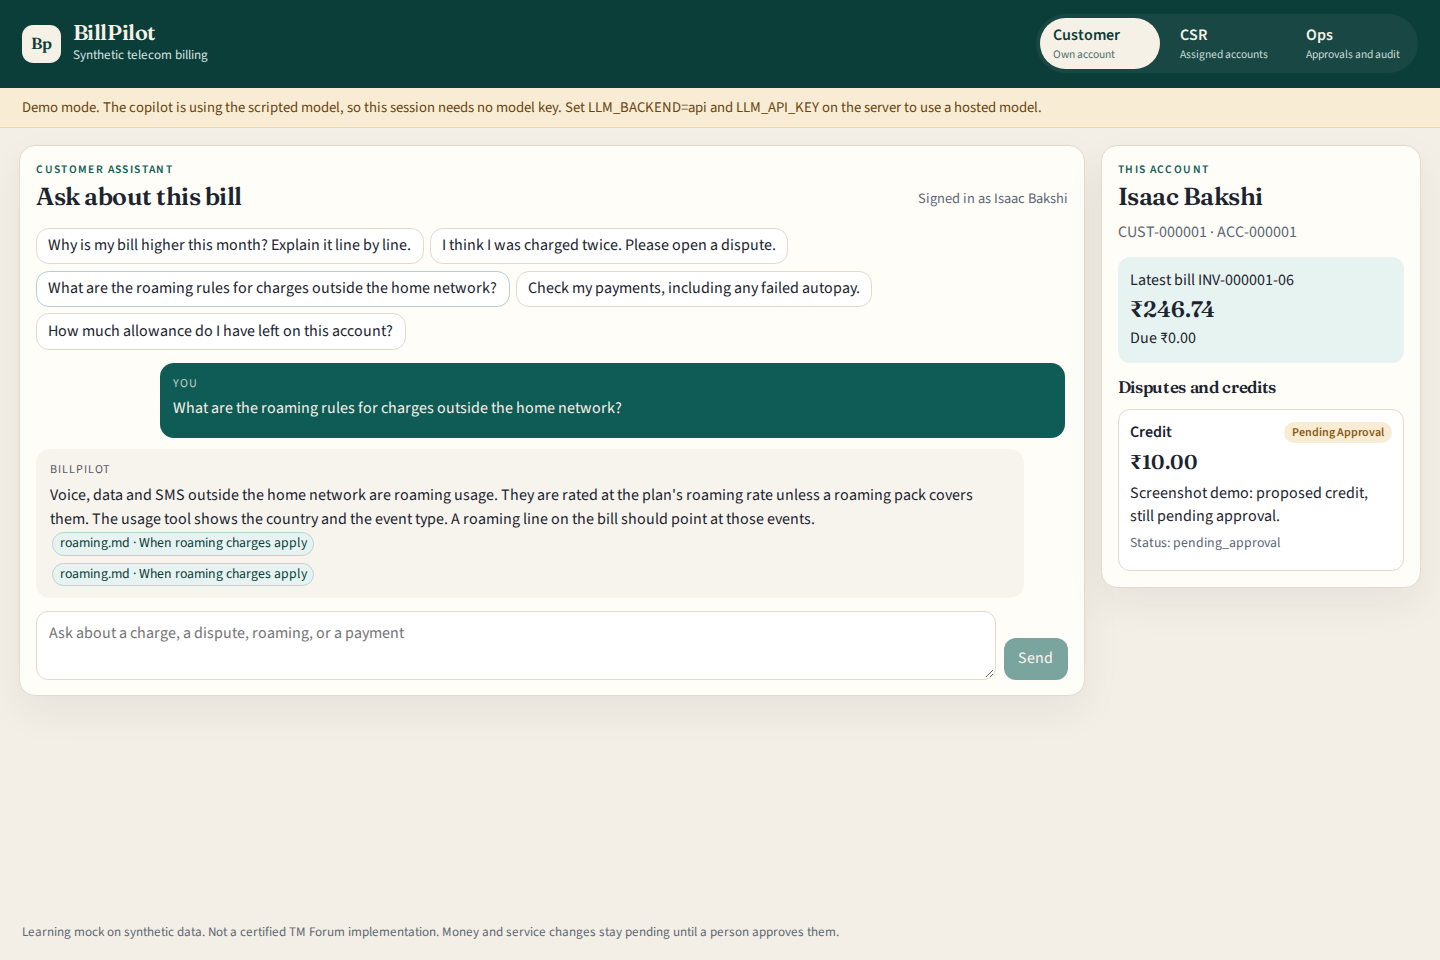
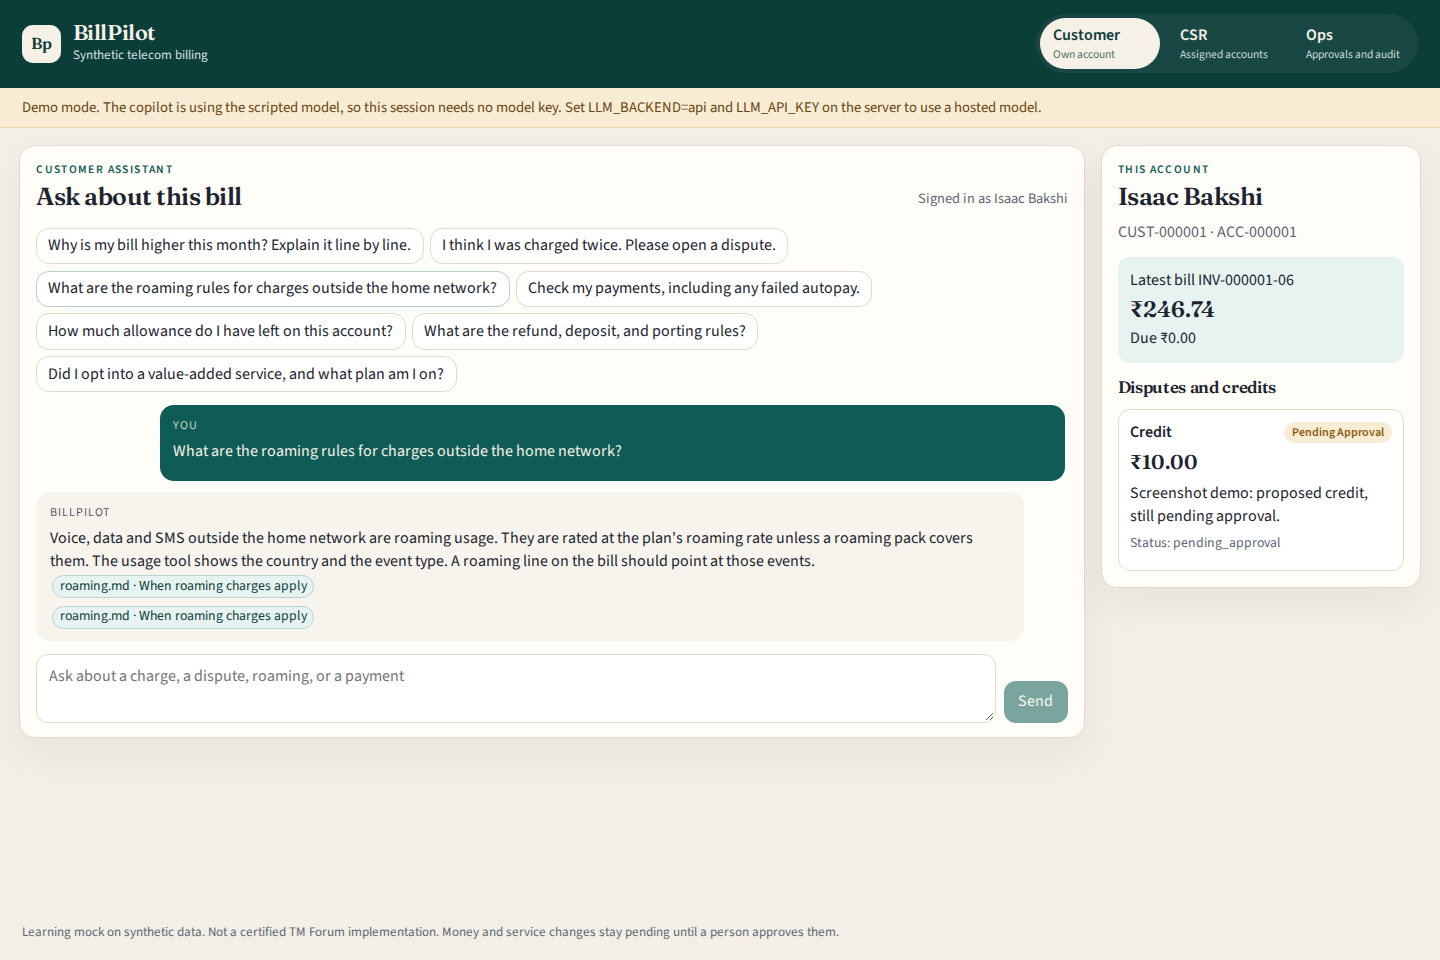
Give each persona a path and document a small local run
Move the web CI action onto a Node 24 runtime, and add a laptop click-through that stays on the fake model until a key is set.

Changed region(s): [[0.0, 0.3438, 0.75, 0.75]]

diff --git a/web/src/test/ui.test.tsx b/web/src/test/ui.test.tsx
@@ -36,13 +36,33 @@ describe("persona UI", () => {
     expect(await screen.findByRole("status")).toHaveTextContent(/demo mode/i);
     expect(screen.getByRole("heading", { name: "Ask about this bill" })).toBeInTheDocument();
     await user.click(screen.getByRole("radio", { name: /ops/i }));
+    expect(window.location.pathname).toBe("/ops");
     expect(screen.getByRole("heading", { name: "Approvals, runs, and the audit log" })).toBeInTheDocument();
+    expect(screen.getByText(/no customer chat/i)).toBeInTheDocument();
     expect(screen.getByRole("region", { name: /failure dashboard, phase 4/i })).toBeInTheDocument();
     expect(screen.getByRole("region", { name: /reports, phase 4/i })).toBeInTheDocument();
     await user.click(screen.getByRole("tab", { name: "Unbars" }));
     expect(screen.getByText(/no unbar proposals/i)).toBeInTheDocument();
     await user.click(screen.getByRole("radio", { name: /csr/i }));
+    expect(window.location.pathname).toBe("/csr");
     expect(screen.getByRole("region", { name: /csr troubleshooting ai, phase 4/i })).toBeInTheDocument();
+  });
+
+  it("opens the ops view from /ops", async () => {
+    window.history.pushState({}, "", "/ops");
+    vi.stubGlobal(
+      "fetch",
+      vi.fn(async (input: RequestInfo) => {
+        const url = String(input);
+        if (url.endsWith("/health")) {
+          return ok({ status: "ok", demoMode: true, llmBackend: "fake", tracing: false });
+        }
+        return ok([], "0");
+      }),
+    );
+    render(<App />);
+    expect(await screen.findByRole("heading", { name: "Approvals, runs, and the audit log" })).toBeInTheDocument();
+    expect(screen.getByRole("radio", { name: /ops/i })).toHaveAttribute("aria-checked", "true");
   });
 
   it("renders a citation as a button and a credit as pending approval", async () => {

diff --git a/web/src/App.tsx b/web/src/App.tsx
@@ -1,7 +1,7 @@
 import { useEffect, useMemo, useState } from "react";
 
 import { createApi } from "./api";
-import { personaById, PERSONAS } from "./personas";
+import { personaById, personaFromPath, PERSONAS, personaPath } from "./personas";
 import type { PersonaId } from "./personas";
 import type { Health } from "./types";
 import { CsrConsole } from "./views/CsrConsole";
@@ -9,9 +9,23 @@ import { CustomerChat } from "./views/CustomerChat";
 import { OpsDashboard } from "./views/OpsDashboard";
 
 export function App() {
-  const [persona, setPersona] = useState<PersonaId>("customer");
+  const [persona, setPersona] = useState<PersonaId>(() => personaFromPath(window.location.pathname));
   const [health, setHealth] = useState<Health | null>(null);
   const api = useMemo(() => createApi(personaById(persona).key), [persona]);
+
+  useEffect(() => {
+    const onPop = () => setPersona(personaFromPath(window.location.pathname));
+    window.addEventListener("popstate", onPop);
+    return () => window.removeEventListener("popstate", onPop);
+  }, []);
+
+  function selectPersona(id: PersonaId) {
+    setPersona(id);
+    const path = personaPath(id);
+    if (window.location.pathname !== path) {
+      window.history.pushState({ persona: id }, "", path);
+    }
+  }
 
   useEffect(() => {
     let cancel = false;
@@ -48,7 +62,7 @@ export function App() {
               role="radio"
               aria-checked={persona === item.id}
               className={persona === item.id ? "persona selected" : "persona"}
-              onClick={() => setPersona(item.id)}
+              onClick={() => selectPersona(item.id)}
             >
               <strong>{item.label}</strong>
               <span>{item.scope}</span>

diff --git a/web/src/views/OpsDashboard.tsx b/web/src/views/OpsDashboard.tsx
@@ -80,6 +80,7 @@ export function OpsDashboard({ api }: { api: Api }) {
         <div>
           <p className="eyebrow">Ops control tower</p>
           <h2>Approvals, runs, and the audit log</h2>
+          <p className="muted">Ops has no customer chat. This screen approves proposals and reads the log.</p>
         </div>
       </header>
       {error ? <p className="error">{error}</p> : null}
@@ -180,13 +181,18 @@ export function OpsDashboard({ api }: { api: Api }) {
             { key: "actor", label: "Actor", render: (row) => `${row.actorRole} · ${row.actorId}` },
             { key: "action", label: "Action", render: (row) => row.action },
             { key: "resource", label: "Resource", render: (row) => row.resourceType },
+            {
+              key: "request",
+              label: "Request",
+              render: (row) => <code title={row.requestId}>{row.requestId.slice(0, 8)}</code>,
+            },
           ]}
         />
       </section>
 
       <div className="placeholders">
         <Placeholder phase="Phase 4" title="Failure dashboard">
-          Live failures, stuck bill runs, and consumer lag. The event publisher is still a no-op, so this panel is a placeholder.
+          Live failures, stuck bill runs, consumer lag, and the fraud and revenue checks. The event publisher is still a no-op, so this panel is a placeholder.
         </Placeholder>
         <Placeholder phase="Phase 4" title="Reports">
           Daily and monthly billing, collections, dispute, and treatment reports are not generated yet.

diff --git a/web/src/personas.ts b/web/src/personas.ts
@@ -10,3 +10,14 @@ export const PERSONAS: { id: PersonaId; label: string; key: string; scope: strin
 export function personaById(id: PersonaId) {
   return PERSONAS.find((persona) => persona.id === id) ?? PERSONAS[0];
 }
+
+export function personaPath(id: PersonaId): string {
+  return `/${id}`;
+}
+
+/** `/` is the customer view. `/csr` and `/ops` are the other two. */
+export function personaFromPath(path: string): PersonaId {
+  const head = path.split("/").filter(Boolean)[0];
+  if (head === "csr" || head === "ops") return head;
+  return "customer";
+}

diff --git a/web/src/views/CustomerChat.tsx b/web/src/views/CustomerChat.tsx
@@ -21,6 +21,8 @@ const PROMPTS = [
   "What are the roaming rules for charges outside the home network?",
   "Check my payments, including any failed autopay.",
   "How much allowance do I have left on this account?",
+  "What are the refund, deposit, and porting rules?",
+  "Did I opt into a value-added service, and what plan am I on?",
 ];
 
 export function CustomerChat({ api }: { api: Api }) {

diff --git a/web/src/test/setup.ts b/web/src/test/setup.ts
@@ -5,4 +5,5 @@ import { afterEach, vi } from "vitest";
 afterEach(() => {
   cleanup();
   vi.unstubAllGlobals();
+  window.history.pushState({}, "", "/");
 });

diff --git a/docs/deploy.md b/docs/deploy.md
@@ -4,6 +4,114 @@ This is a portfolio deploy. The data is synthetic. You create the accounts and c
 
 The shape is one container (API and the built UI) plus a hosted Postgres that has pgvector. The choices and the reasons are in [0021](decisions/0021-render-and-neon.md).
 
+## How to test locally
+
+You can do this on a laptop before you create any host account. Docker is the only install. The copilot stays on the scripted model until you set a key, so this costs nothing.
+
+### A smaller ledger when RAM is tight
+
+`docker compose up` with no overrides seeds **500 customers and 6 months**. That is the design target. On a laptop with limited free memory, use the same smaller ledger the free host uses: 48 customers, 2 months, one of each planted fault. Postgres plus that seed fits a machine that would struggle with the full set.
+
+If a previous run already created the volume, remove it first. Otherwise the old 500-customer database is reused and the new counts are ignored.
+
+```bash
+docker compose down -v
+```
+
+Copy `.env.example` to `.env` and set these three lines. The anomaly JSON must name every fault type. `CUSTOMER_COUNT=48` is enough for one of each plus the healthy controls. It is not enough for the default counts, which need at least 112 customers.
+
+```bash
+CUSTOMER_COUNT=48
+MONTHS=2
+ANOMALY_COUNTS={"double_charge":1,"roaming_spike":1,"wrong_rate":1,"missed_discount":1,"charge_after_cancellation":1,"vas_not_opted_in":1,"payment_not_recorded":1,"payment_not_posted":1,"unbilled_usage":1,"duplicate_usage":1,"sim_swap":1,"barred_after_paying":1,"treated_during_open_dispute":1,"payment_not_ending_treatment":1,"promise_to_pay_ignored":1,"exempt_account_treated":1,"addon_never_activated":1,"allowance_not_reset":1,"overlapping_packs_double_counted":1,"overlapping_packs_dropped":1,"promo_ended_early":1,"feature_active_after_cancellation":1,"overage_on_covered_usage":1}
+```
+
+Leave `LLM_BACKEND=fake` and leave `LLM_API_KEY` empty.
+
+```bash
+docker compose up --build
+```
+
+Wait until the API log says it is listening, or until `curl -s http://localhost:8000/health` returns `"status":"ok"` and `"demoMode":true`. The first boot migrates and seeds. A later `docker compose up` skips the seed when `customers` already has rows.
+
+If the seed container is killed before it prints `Seeded`, the machine ran out of memory. Run `docker compose down -v` and use the 48-customer settings above. Do not raise `CUSTOMER_COUNT` on a 512 MB host. That limit is the Render free instance, not your laptop.
+
+### URLs and demo keys
+
+| View | URL | Key the switcher sends | Scope |
+| --- | --- | --- | --- |
+| Customer | http://localhost:8000/customer (also http://localhost:8000) | `dev-customer-key` | `CUST-000001` only |
+| CSR | http://localhost:8000/csr | `dev-csr-key` | Accounts assigned to `CSR-A`, including `CUST-000001` |
+| Ops | http://localhost:8000/ops | `dev-ops-key` | Every account, approvals, runs, audit. No customer chat |
+| Health | http://localhost:8000/health | none | `demoMode` and `tracing` |
+| API docs | http://localhost:8000/docs | none | OpenAPI |
+
+The keys are the published demo defaults. They are in the frontend bundle on purpose. Do not replace them with a key you care about.
+
+### Click-through
+
+The banner should say **Demo mode** before you start.
+
+**Customer** at http://localhost:8000/customer
+
+1. Confirm the rail shows `CUST-000001` and a latest bill.
+2. Click **Why is my bill higher this month? Explain it line by line.** Wait for the answer. It names the bill and the lines.
+3. Click a citation chip, such as `billing-policy.md` or `tariffs.md`. A drawer opens that policy section. Close it.
+4. Click **What are the roaming rules for charges outside the home network?** The answer cites `roaming.md`. Open that chip.
+5. Click **I think I was charged twice. Please open a dispute.** The rail shows the dispute with status `open`. A customer cannot apply a credit. The answer says a CSR has to propose one and ops has to approve it.
+6. Click **What are the refund, deposit, and porting rules?** and **Did I opt into a value-added service, and what plan am I on?** Each answer cites a policy section.
+
+**CSR** at http://localhost:8000/csr
+
+1. Search `CUST-000001` and select that account.
+2. Walk the tabs: Bills, Lines, Usage, Payments, Treatment, Tickets, Disputes. Disputes shows the dispute from the customer step, with status `open`.
+3. In the copilot box, ask: `Explain the latest bill line by line against the tariff.`
+4. Open the **tool calls** control under the answer. You should see the bill, the lines, and a policy search. Click a citation chip and read the section.
+5. The **CSR troubleshooting AI** panel says Phase 4. It does not take an error paste yet.
+
+`CUST-000001` is the healthy demo customer. The copilot proposes a credit only when it finds a duplicate line, and it will not auto-credit a roaming spike. On the 500-customer seed, search `CUST-000003` (even index, so CSR-A can see it) and ask: `I think this bill was charged twice. Propose a credit. Do not apply it.` The card says **Pending approval**. On the 48-customer seed the only double charge is `CUST-000002`, which belongs to CSR-B. To watch the copilot propose that one, set `CSR_CODE=CSR-B` in `.env`, run `docker compose up -d --force-recreate api`, and search `CUST-000002` with the same question. Set `CSR_CODE` back to `CSR-A` when you are done.
+
+To put a credit on the demo account without hunting for a planted fault, propose one with the CSR key. It stays `pending_approval`. Replace `ACCOUNT_ID` and `BILL_ID` with the ids from the CSR Bills tab (or from the customer bill API).
+
+```bash
+curl -s -X POST http://localhost:8000/tmf-api/customerBillManagement/v4/billAdjustment \
+  -H 'X-API-Key: dev-csr-key' -H 'Content-Type: application/json' \
+  -d '{"billingAccount":{"id":"ACCOUNT_ID"},"customerBill":{"id":"BILL_ID"},"adjustmentType":"credit","amount":{"unit":"INR","value":"10.00"},"reason":"Demo credit, still pending approval."}'
+```
+
+**Ops** at http://localhost:8000/ops
+
+1. Confirm the page says ops has no customer chat. The three counters are open disputes, pending approvals, and fraud flags.
+2. On **Credits**, the proposed credit shows the amount, the reason, and who proposed it. Click **Approve**. The notice names the approver (`ops`) and the status. The row leaves the pending list. Reload the customer view: the credit is no longer pending, and the line names who decided it.
+3. A second `POST` to `/tmf-api/customerBillManagement/v4/billAdjustment/{id}/approve` returns 409 and does not change the bill again. The UI shows that message when the endpoint returns 409.
+4. Open **Unbars** and **Plan changes**. Both say there is no proposal and no endpoint. Do not expect a button there.
+5. **Recent agent runs** lists the turns you just made, with decision, token total, estimated cost, latency, and trace id. The trace id is a dash until Langfuse keys are set.
+6. **Audit log** lists the chat turns and the approval. The request column is the first characters of the request id.
+7. **Failure dashboard** and **Reports** are marked Phase 4, including fraud and revenue checks.
+
+### Switch from the fake model to a real API key
+
+Still local. Put the key only in `.env`, which is gitignored.
+
+```bash
+LLM_BACKEND=api
+LLM_BASE_URL=https://api.openai.com/v1
+LLM_MODEL=gpt-4o-mini
+LLM_API_KEY=sk-...
+```
+
+Any host that accepts `POST {LLM_BASE_URL}/chat/completions` works. Keep `EMBEDDING_BACKEND=hash` so you are not billed for vectors.
+
+Recreate the API so it reads the new values. The database volume stays.
+
+```bash
+docker compose up -d --build api
+```
+
+Reload http://localhost:8000/health. `demoMode` is false and `llmBackend` is `api`. The banner no longer says demo mode. Ask one customer question and stop. Each question spends tokens on your key.
+
+To go back, set `LLM_BACKEND=fake`, clear `LLM_API_KEY`, and run `docker compose up -d --build api` again. `demoMode` returns to true.
+
 ## What you create
 
 | Account | Plan | Pays for |

diff --git a/README.md b/README.md
@@ -63,9 +63,9 @@ Requirements: Docker, and for tests a local Python 3.12.
 docker compose up --build
 ```
 
-That starts Postgres, runs migrations, seeds 500 customers across 6 months, and serves the API and the persona UI from one process. Open <http://localhost:8000> for the UI and <http://localhost:8000/docs> for the API.
+That starts Postgres, runs migrations, seeds 500 customers across 6 months, and serves the API and the persona UI from one process. The three views are <http://localhost:8000/customer> (also <http://localhost:8000>), <http://localhost:8000/csr>, and <http://localhost:8000/ops>. The API reference is <http://localhost:8000/docs>.
 
-The header switches persona. Each button sends one of the demo keys below. With no model key, a banner says the copilot is in demo mode.
+The header switches persona and updates the path. Each button sends one of the demo keys below. With no model key, a banner says the copilot is in demo mode. A laptop with limited RAM should use the smaller seed in [How to test locally](docs/deploy.md#how-to-test-locally).
 
 ![Customer chat](docs/screenshots/customer.png)
 

diff --git a/docs/decisions/0020-react-vite-ui.md b/docs/decisions/0020-react-vite-ui.md
@@ -6,6 +6,8 @@ The UI is a Vite app in `web/`, written in React and TypeScript. It builds to st
 
 The components (badge, table, drawer, proposal card) live in this repo. There is no component-kit dependency.
 
+Each view has its own path: `/customer`, `/csr`, and `/ops`. `/` is the customer view. The switcher updates the path, and the browser back button returns to the previous persona. The API serves `index.html` for those paths.
+
 ## Alternatives
 
 - Streamlit, which the architecture deck also named. A second Python process, a second port, and a look that is hard to put in a short demo video.
